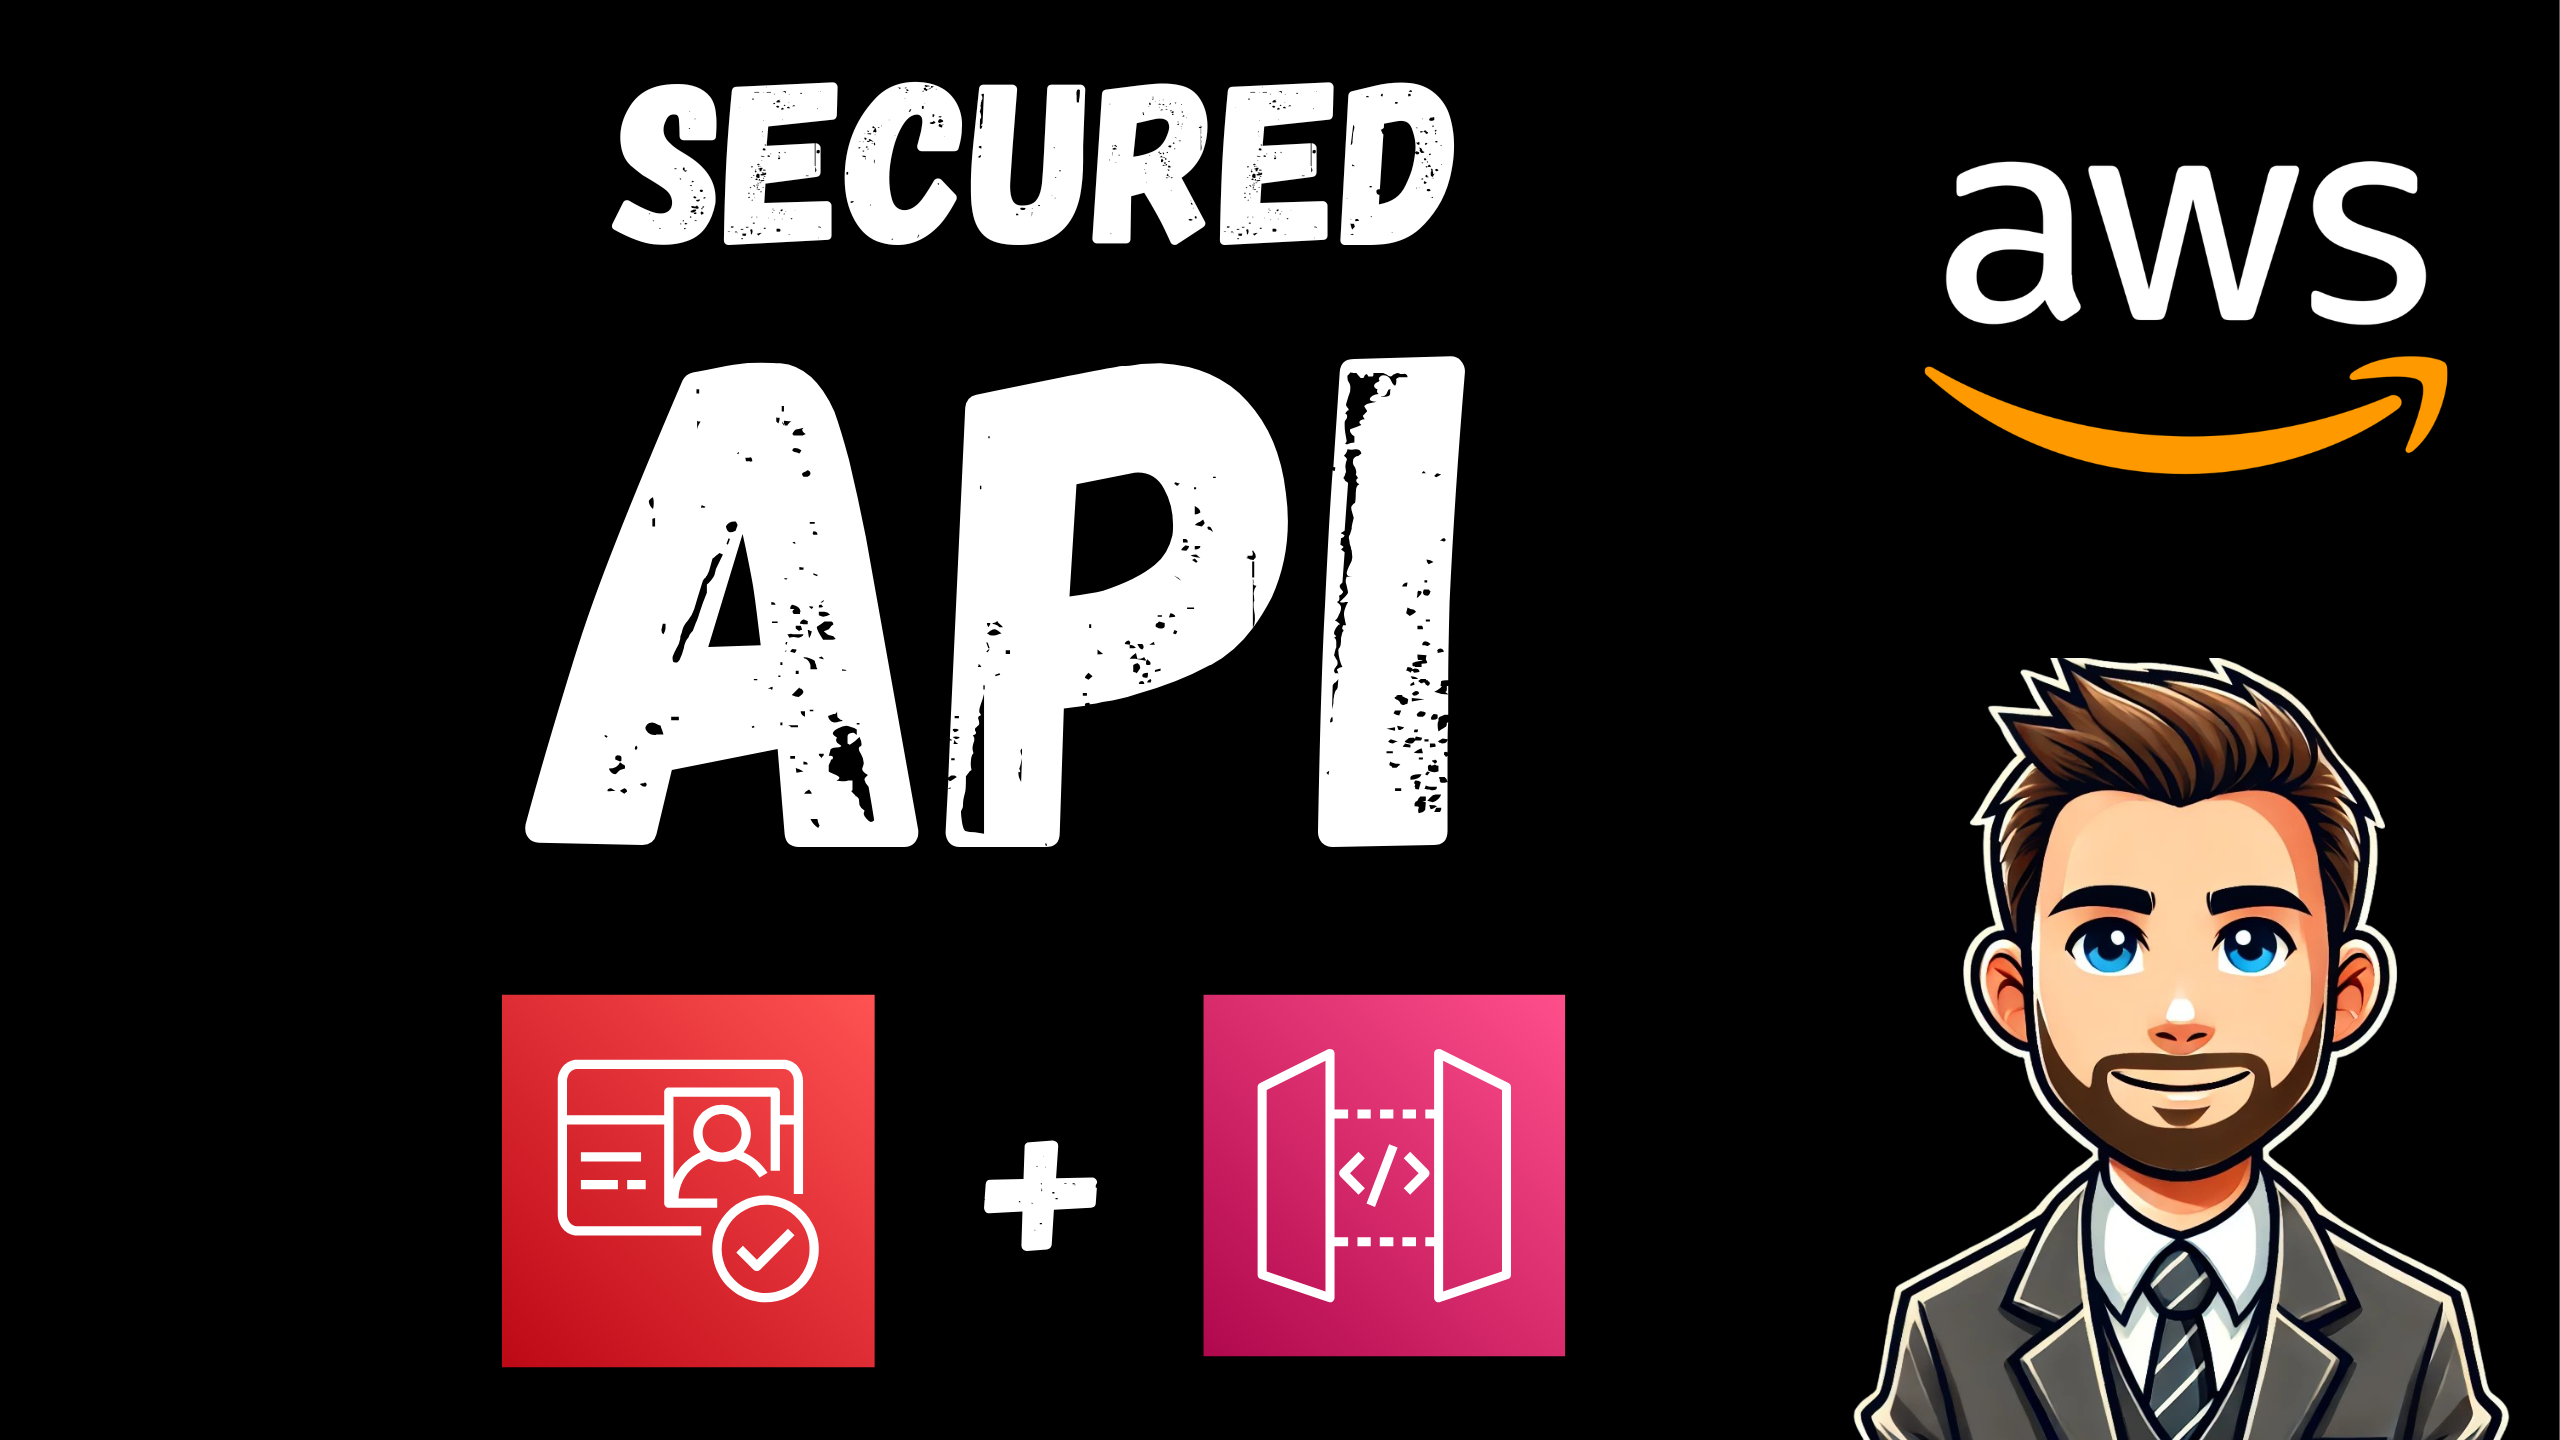
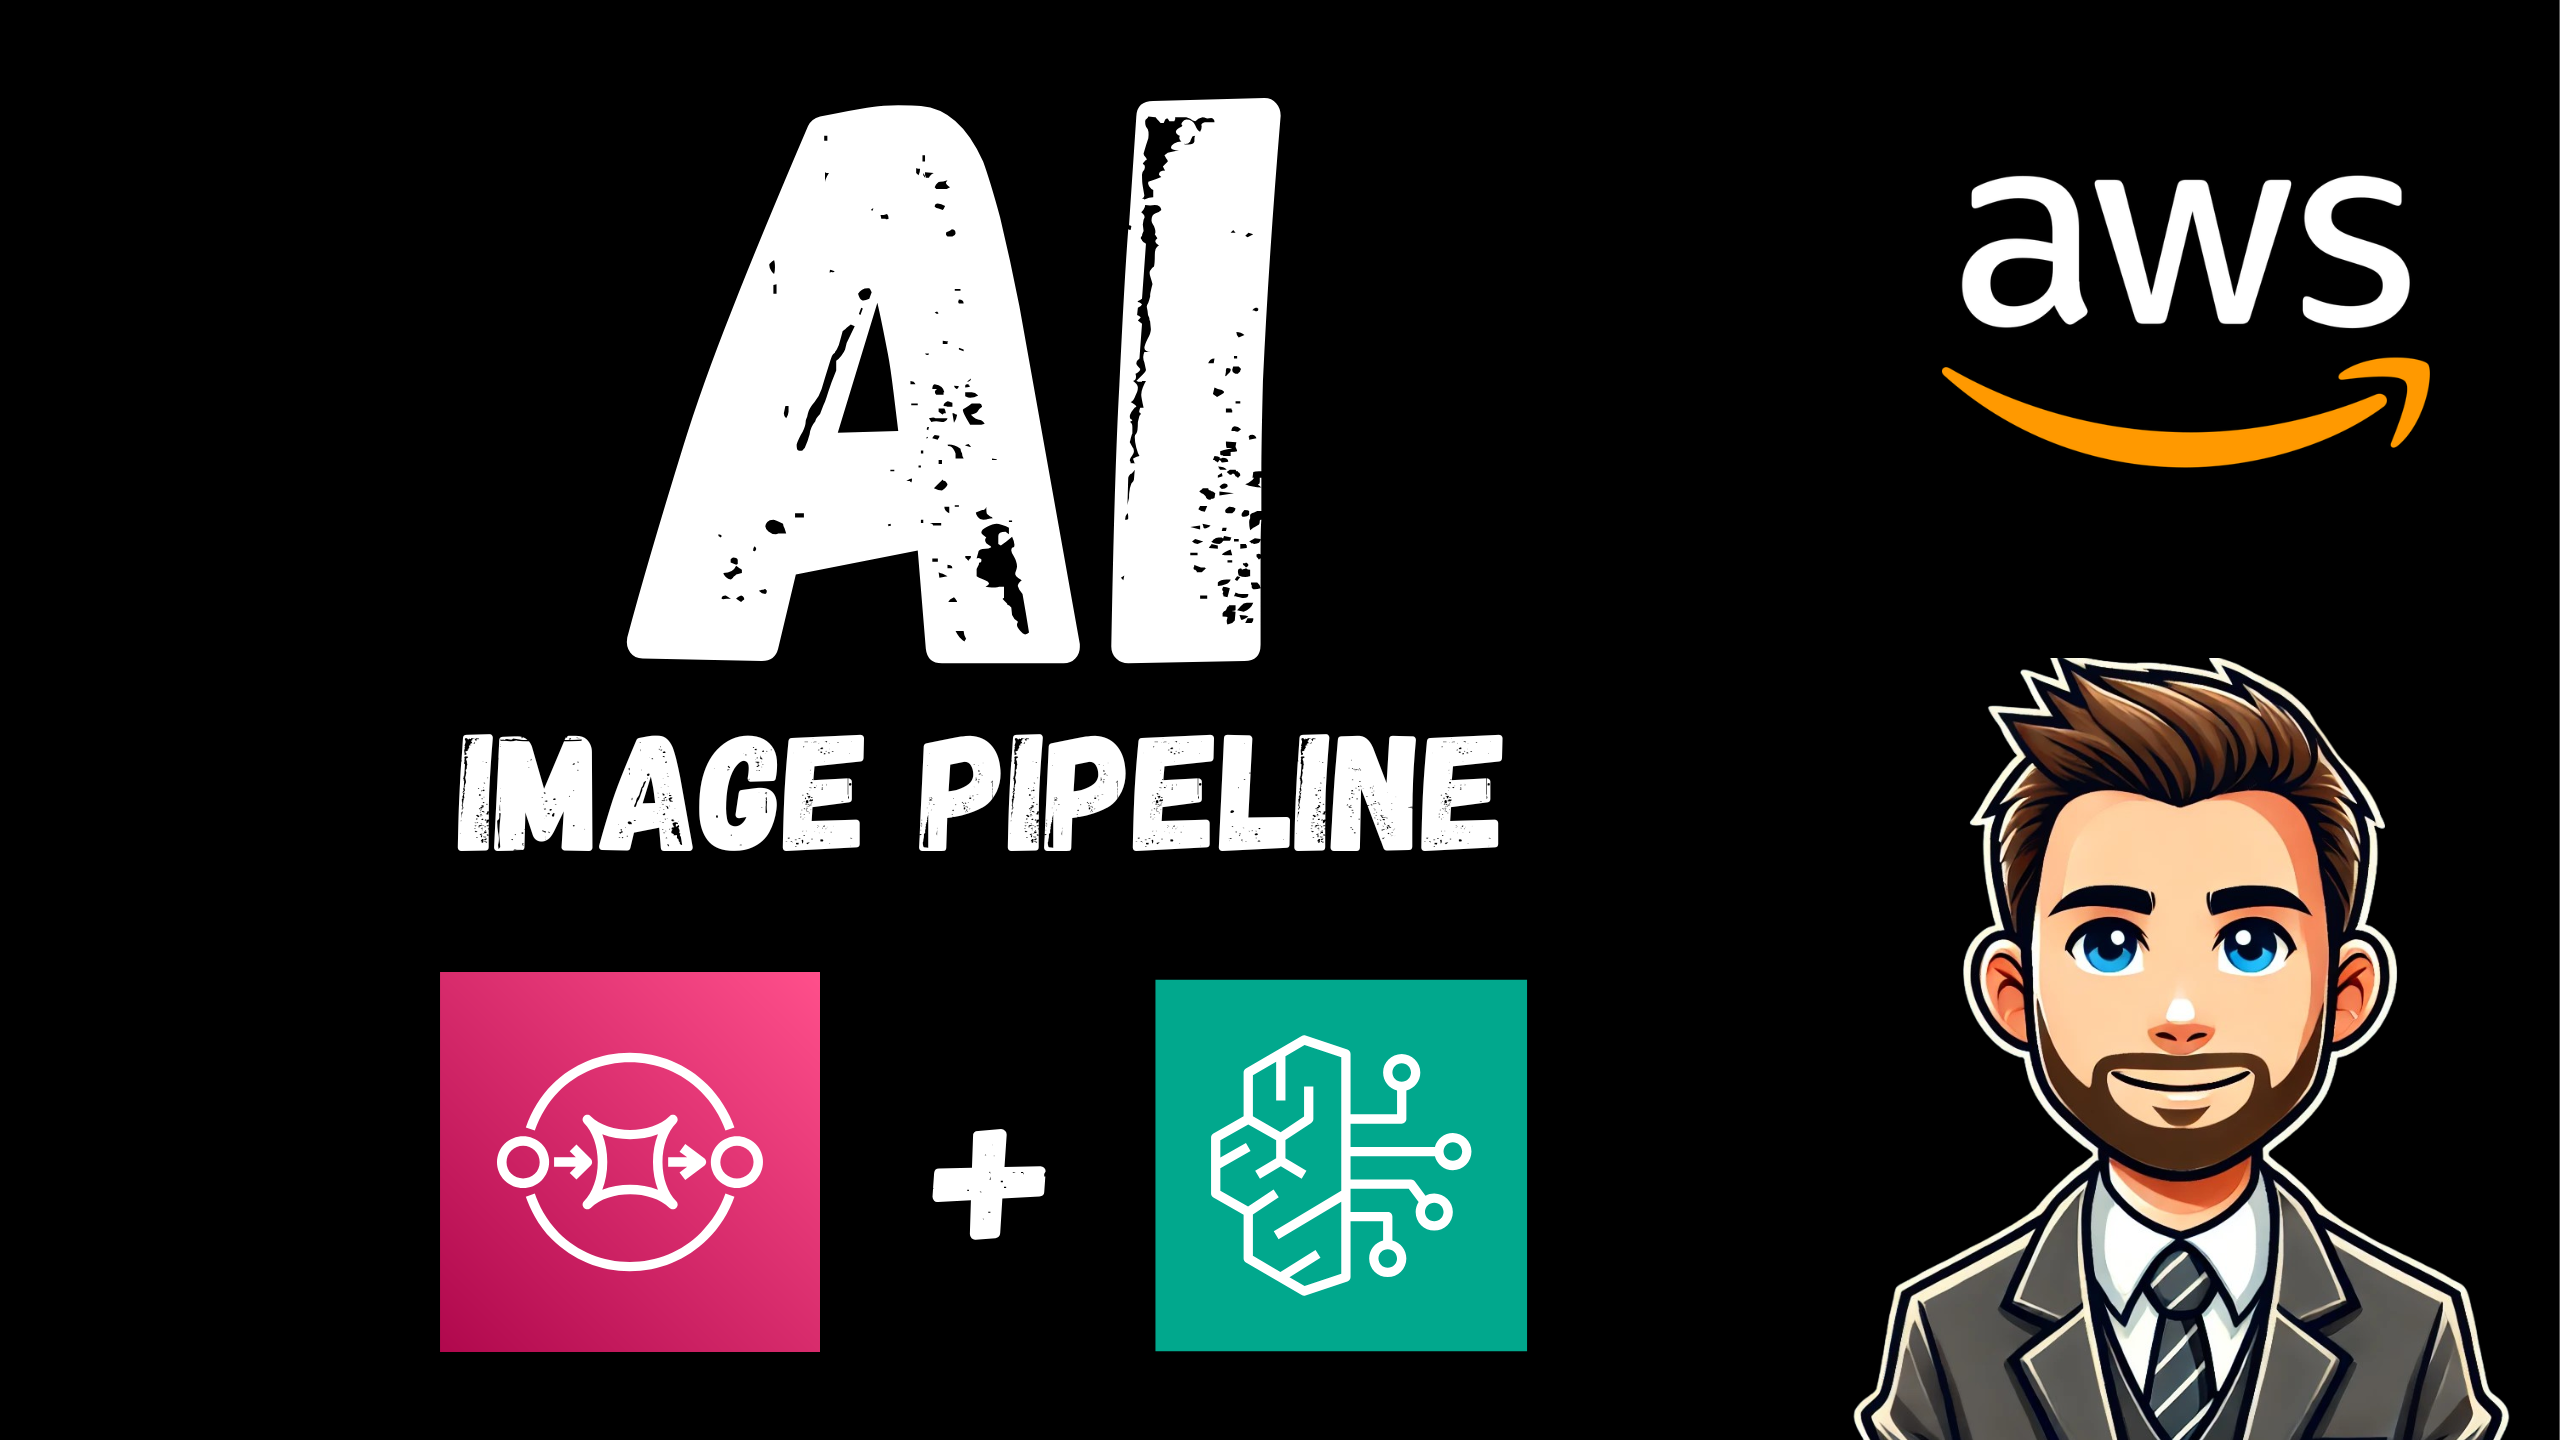
finish video

diff --git a/00-resources/VIDEO.md b/00-resources/VIDEO.md
@@ -1,35 +1,41 @@
-#AWS #Serverless #AWSLambda #DynamoDB #APIGateway #Cognito #Terraform #Python #CRUD
+#AWS #Serverless #AWSLambda #Bedrock #SQS #DynamoDB #APIGateway #Cognito #Terraform #Python #GenerativeAI
 
-*Secure a Serverless API in AWS (Cognito + API Gateway)*
+*Build an AI Image Pipeline on AWS (Bedrock + Lambda + SQS)*
 
-Secure a serverless notes API on AWS using Amazon Cognito, API Gateway JWT authorization, and a PKCE OAuth2 flow — all provisioned with Terraform and deployed with a single script. The backend runs on five Python Lambda functions, DynamoDB stores the data, and a static S3 frontend handles the Cognito login redirect and token exchange.
+Turn any photo into a cartoon using a fully serverless, event-driven pipeline on AWS — provisioned with Terraform and deployed with a single script. Users sign in with Cognito, upload a photo, pick a cartoon style, and a queue-driven worker invokes Amazon Bedrock's Stability image model to generate a stylized result. Originals and cartoons are stored privately in S3 and served through short-lived presigned URLs.
 
-In this project we build on the serverless CRUD API from the previous video and add real user authentication — each user can only read and write their own notes, enforced at the storage layer.
+In this project we build an asynchronous AI image-processing pipeline from scratch — the browser uploads directly to S3, SQS decouples the slow Bedrock inference call from the API response, and a container-image Lambda running Pillow normalizes the photo before sending it to Bedrock. The whole thing runs without a single EC2 instance.
 
 WHAT YOU'LL LEARN
-• Provisioning a Cognito User Pool and Hosted UI with Terraform
-• Implementing PKCE OAuth2 Authorization Code flow in a static SPA
+• Invoking Amazon Bedrock image models (Stability stable-image-control-structure-v1:0) from Lambda
+• Using SQS to decouple a slow AI inference call from a synchronous API response
+• Running a container-image Lambda (ECR) with Pillow for image normalization
+• Implementing PKCE OAuth2 Authorization Code flow with Cognito in a static SPA
 • Attaching a JWT authorizer to API Gateway HTTP API v2
-• Extracting the Cognito sub claim in Lambda as the per-user DynamoDB partition key
-• Generating runtime config (config.json) at deploy time using Terraform outputs
+• Generating presigned S3 POST URLs with content-type and size enforcement
+• Enforcing per-user daily quotas with a DynamoDB range query — no GSI required
+• Proactive JWT token refresh using the Cognito /oauth2/token endpoint
 
 INFRASTRUCTURE DEPLOYED
 • Cognito User Pool with Hosted UI domain and SPA app client (PKCE, no secret)
 • API Gateway HTTP API v2 with JWT authorizer (validates against Cognito JWKS)
-• Five Lambda functions (Python 3.14, one per route: create/list/get/update/delete)
-• Five IAM roles with least-privilege DynamoDB policies per operation
-• DynamoDB table (PAY_PER_REQUEST, PK=owner (Cognito sub), SK=id)
-• S3 bucket hosting the SPA (index.html + callback.html + config.json)
+• Five zip-packaged API Lambdas (Python 3.11): upload-url, submit, result, history, delete
+• Worker Lambda (container image from ECR, 2048 MB, 120 s timeout) triggered by SQS
+• SQS queue (cartoonify-jobs, visibility timeout 180 s, batch size 1)
+• DynamoDB table (PAY_PER_REQUEST, PK=owner, SK=job_id time-sortable, 7-day TTL)
+• S3 web bucket (public SPA hosting) + S3 media bucket (private, 7-day lifecycle)
+• ECR repository for the worker container image
+• IAM roles scoped per Lambda — API role cannot invoke Bedrock; worker role cannot delete
 
 GitHub
-https://github.com/mamonaco1973/aws-cognito-app
+https://github.com/mamonaco1973/aws-cartoonify
 
 README
-https://github.com/mamonaco1973/aws-cognito-app/blob/main/README.md
+https://github.com/mamonaco1973/aws-cartoonify/blob/main/README.md
 
 TIMESTAMPS
 00:00 Introduction
-00:18 Architecture
-00:41 Build the Code
-00:58 Build Results
-01:38 Demo
+00:14 Architecture
+00:49 Build the Code
+01:05 Build Results
+01:49 Demo

diff --git a/00-resources/video-script.md b/00-resources/video-script.md
@@ -112,52 +112,35 @@ API Gateway validates the caller's Bearer token before calling the lambda.
 
 ## Demo
 
-[ Browser — Notes Demo, Login button visible ]
+[ Time 0 ]
 
-"When the app loads initially we are not logged in yet — the note list is empty and the controls are disabled"
+"Navigate to the web application URL"
 
 [ Clicking Login — Cognito Hosted UI opens ]
 
-"Click Login. The browser redirects to the Cognito Hosted UI."
+"Sign in using Cognito."
 
-[ Creating a new user account or signing in ]
+[ Choose File ]
 
-"Sign in with an existing account — or create one here."
+"Once signed in, select “Choose File” and upload a test image."
 
-[ Cognito redirects back to callback.html ]
+[ Pencil Sketch]
 
-"Cognito redirects back to callback.html. The page exchanges the authorization code for tokens and stores the access token in sessionStorage."
+"Select the “Pencil Sketch” style, then click “Cartoonify” to start the image generation pipeline."
 
-[ Browser — Notes Demo, now logged in, DevTools → Network tab ]
+[ Show Life Cycle ]
 
-"We're back in the app, now authenticated. Open DevTools so we can watch the API calls."
+"The application displays the image generation lifecycle."
 
-[ Refresh — GET /notes call visible with Authorization header ]
+[ Show Results ]
 
-"The app calls the list endpoint — and you can see the Bearer token in the Authorization header."
+"When processing completes, the application refreshes and shows the result."
 
-[ Clicking New — modal opens, typing a title, clicking Create ]
+[ Show Styles ]
 
-"Create a new note."
+"Now try some different styles. 
 
-[ Show network tab — POST with auth header ]
-
-"A POST is made with the JWT. API Gateway validates it, Lambda extracts the sub, and the note is stored under this user's partition key."
-
-[ Editing and clicking Save ]
-
-"Update the note."
-
-[ Show network tab ]
-
-"A PUT call — same auth flow."
-
-[ Clicking Delete ]
-
-"Delete the note."
-
-[ Browser — empty list ]
-
-"In this demo we've exercised every API endpoint — all secured with Cognito JWT authentication."
+[ Show Gallery ]
+The application displays a gallery of your previous results."
 
 ---
